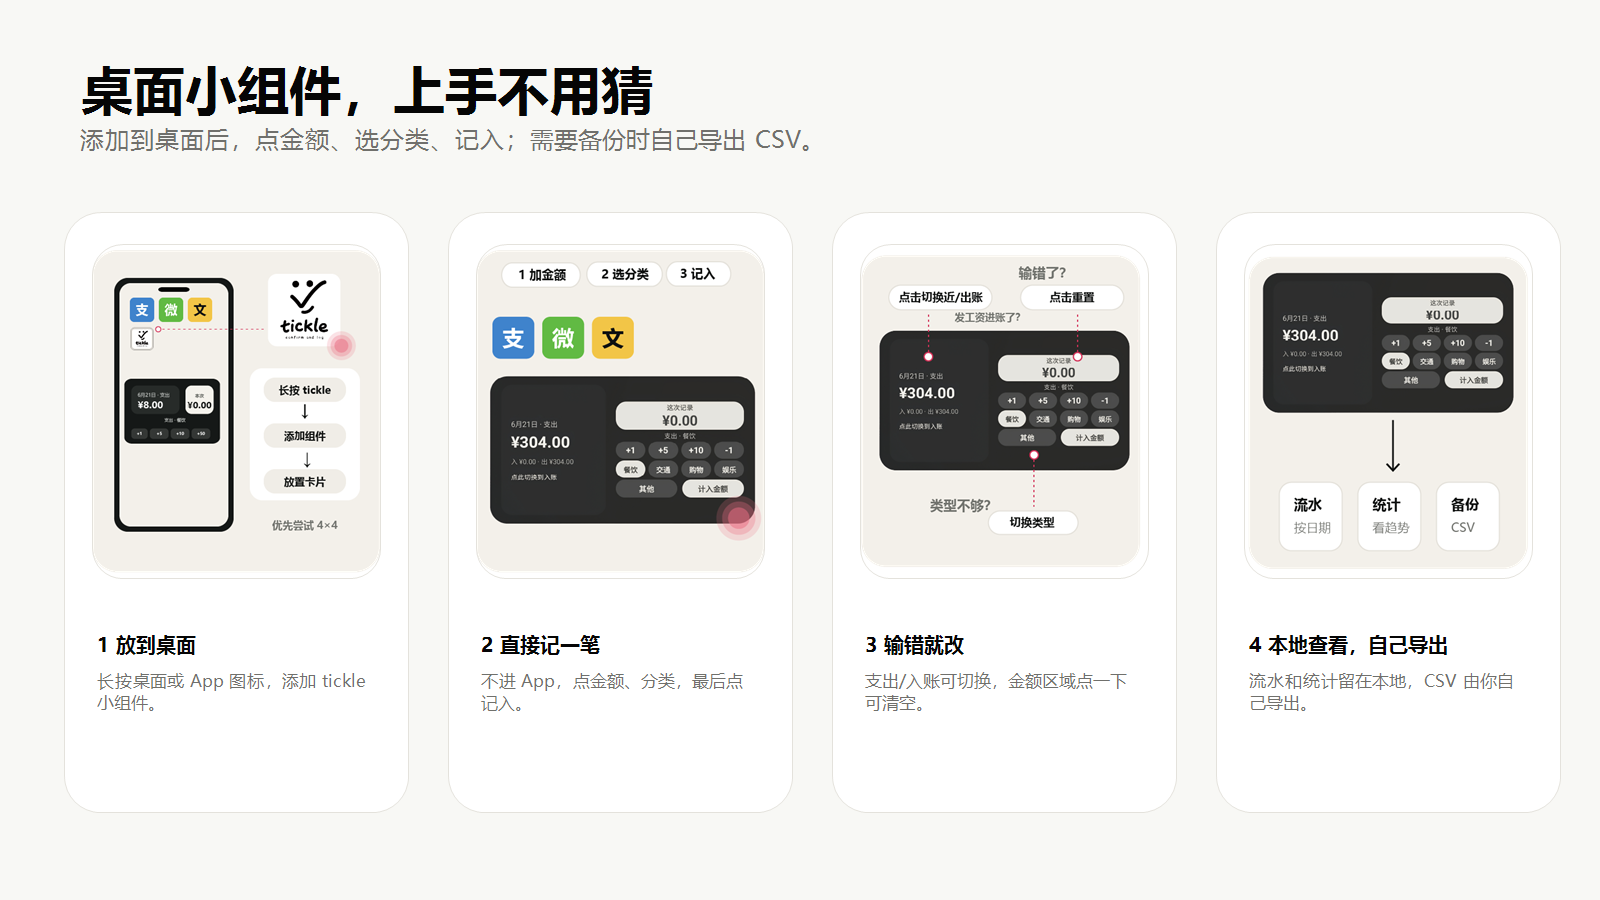
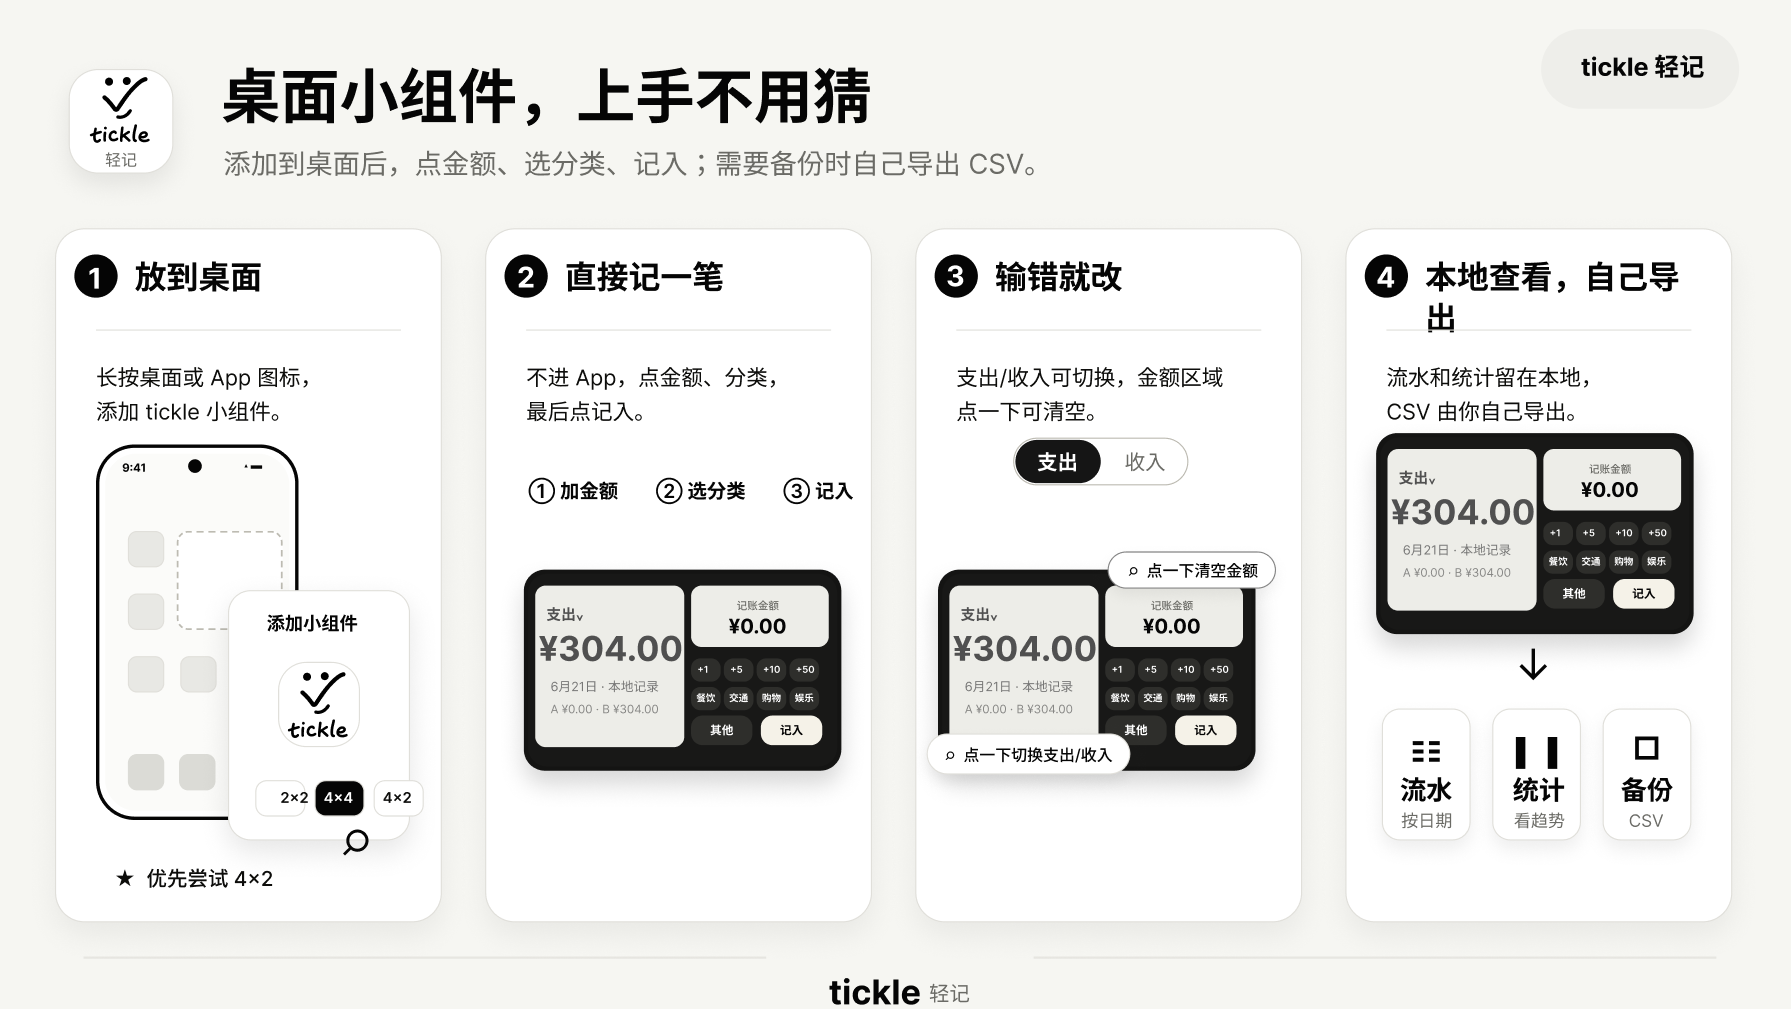
Use Figma tutorial artwork

diff --git a/README.md b/README.md
@@ -53,7 +53,7 @@ Tickle 轻记是一个小而克制的 Android 记账工具。你只需要在 App
 ## 桌面小组件怎么用
 
 <p align="center">
-  <img src="docs/screenshots/preview/tutorial.png" width="860" alt="Tickle 轻记桌面小组件教程">
+  <img src="docs/screenshots/preview/tutorial.png" width="1000" alt="Tickle 轻记桌面小组件教程">
 </p>
 
 ## 为什么更轻，也更安心？